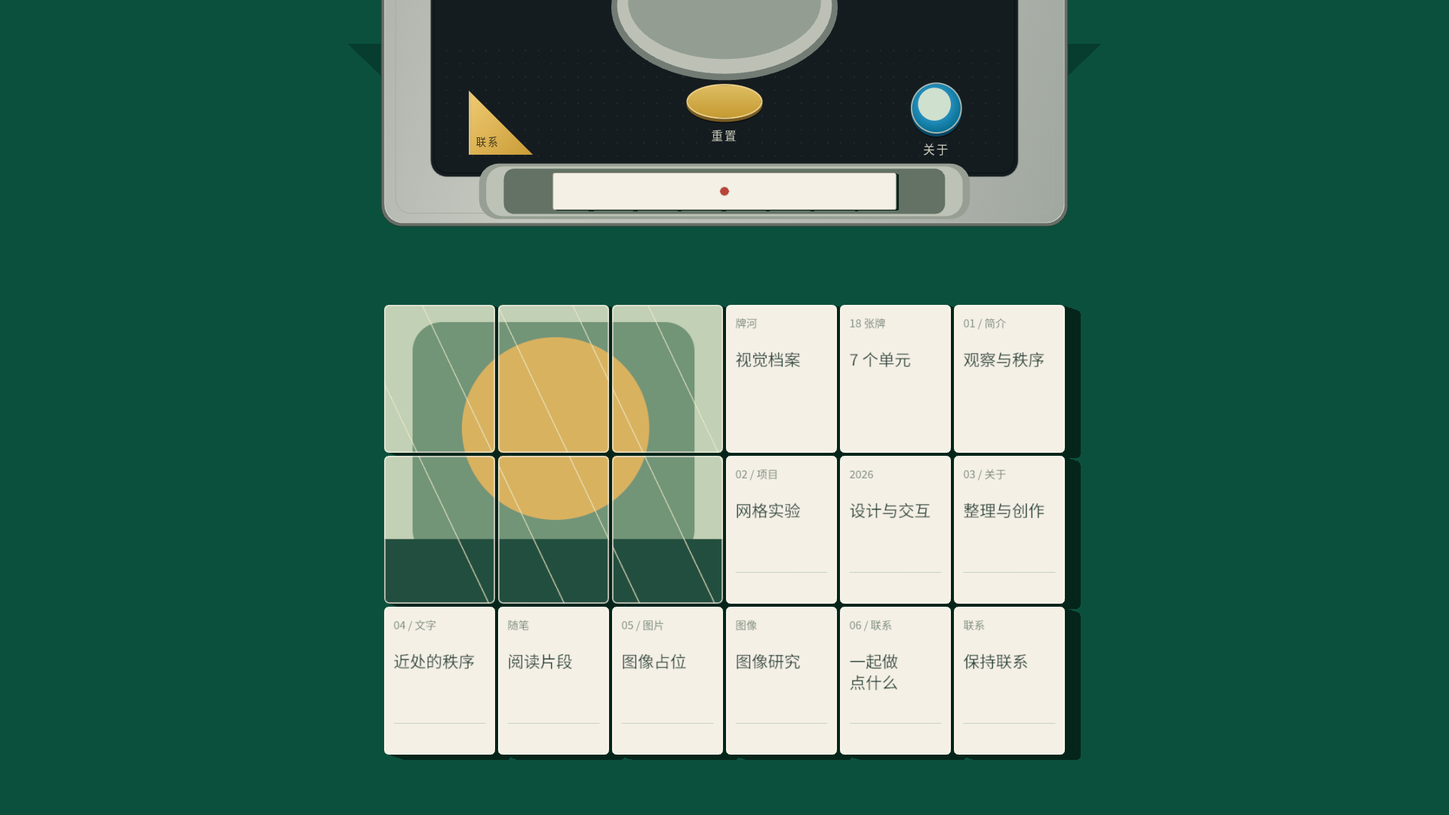
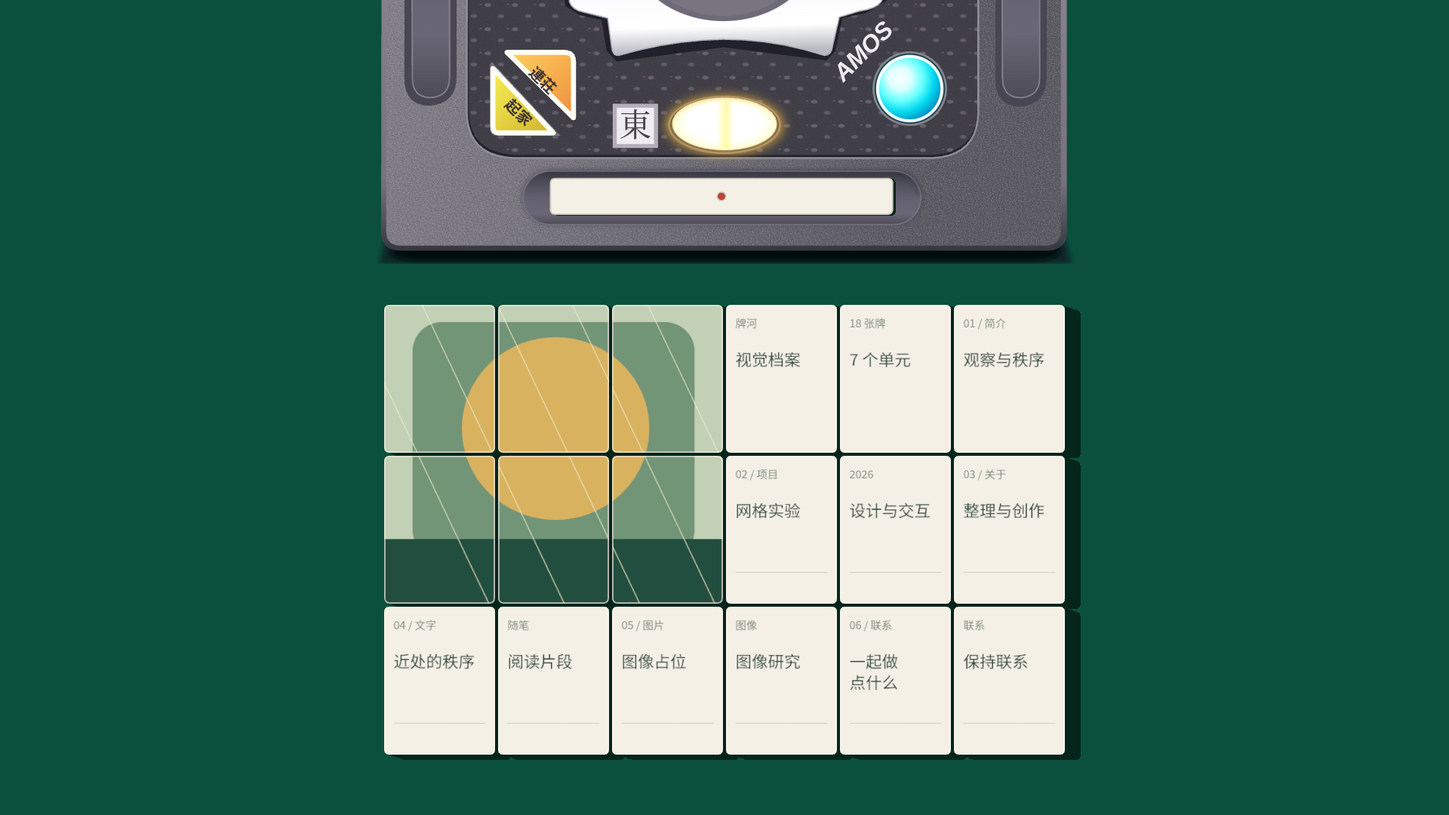
Recreate reference control-box crop and vary centered tenbou landings

Changed region(s): [[0.25, 0.0, 0.75, 0.3361]]

diff --git a/score-stick.js b/score-stick.js
@@ -1,9 +1,10 @@
 import { Euler, Quaternion, Vector3 } from './vendor/three.module.js';
 import { smooth } from './geometry.js';
-import { REAL_SIZE, mm, controlPoint } from './physical-layout.js';
+import { REAL_SIZE, mm, STICK_CENTER } from './physical-layout.js';
 
 // The same millimeter conversion as the tiles and 2D control box.
-export const STICK = Object.freeze({ length: mm(REAL_SIZE.stick.length), width: mm(REAL_SIZE.stick.width), thickness: mm(REAL_SIZE.stick.thickness), x: 960, y: -controlPoint(960, 202).y });
+export const STICK = Object.freeze({ length: mm(REAL_SIZE.stick.length), width: mm(REAL_SIZE.stick.width), thickness: mm(REAL_SIZE.stick.thickness), x: STICK_CENTER.x, y: -STICK_CENTER.y });
+export const MAX_STICK_YAW = Math.PI / 12;
 export const REST_STICK = Object.freeze({ x: STICK.x, y: STICK.y, z: STICK.thickness / 2, quaternion: Object.freeze([0, 0, 0, 1]) });
 const STEP = 1 / 240, PICKUP = 360, GRAVITY = 1600;
 const corners = [];
@@ -32,11 +33,14 @@ function mix(a, b, t) {
 // angular inertia. Precomputing keeps frame drops and blur samples deterministic.
 export function createStickDrop(random = Math.random, start = REST_STICK) {
   const sign = random() < .5 ? -1 : 1;
-  const rotation = new Euler((random() * .16 + .09) * sign, (random() * .16 + .11) * -sign, (random() - .5) * .035, 'XYZ');
+  // Each release chooses its own heading around the original horizontal state,
+  // rather than adding a rotation to the previous landing.
+  const landingYaw = (random() * 2 - 1) * MAX_STICK_YAW;
+  const rotation = new Euler((random() * .12 + .09) * sign, (random() * .14 + .11) * -sign, landingYaw, 'ZYX');
   const launch = { x: STICK.x, y: STICK.y, z: 132 + random() * 20, quaternion: new Quaternion().setFromEuler(rotation).toArray() };
   const position = new Vector3(launch.x, launch.y, launch.z);
   const orientation = new Quaternion().fromArray(launch.quaternion);
-  const velocity = new Vector3(), omega = new Vector3(.25 * sign, -.2 * sign, (random() - .5) * .02);
+  const velocity = new Vector3(), omega = new Vector3(.25 * sign, -.2 * sign, 0);
   const momentum = omega.clone().applyQuaternion(orientation.clone().invert()).multiply(inertia).applyQuaternion(orientation);
   const frames = [launch], impacts = [];
   let quiet = 0;
@@ -48,6 +52,10 @@ export function createStickDrop(random = Math.random, start = REST_STICK) {
     omega.copy(inverseInertia(momentum));
     const spin = omega.length();
     if (spin > 0) orientation.premultiply(new Quaternion().setFromAxisAngle(omega.clone().divideScalar(spin), spin * STEP)).normalize();
+    // Midpoint and in-plane heading are constrained; the ends can still rock,
+    // collide and rebound in 3D. This prevents any accumulated lateral drift.
+    const tilt = new Euler().setFromQuaternion(orientation, 'ZYX');
+    orientation.setFromEuler(new Euler(tilt.x, tilt.y, landingYaw, 'ZYX'));
     const contacts = corners.map((corner) => corner.clone().applyQuaternion(orientation));
     const minimum = Math.min(...contacts.map((contact) => contact.z + position.z));
     const contact = minimum < .15;
@@ -73,8 +81,7 @@ export function createStickDrop(random = Math.random, start = REST_STICK) {
         if (slipSpeed > .0001) {
           const tangent = slip.divideScalar(slipSpeed);
           const tangentArm = arm.clone().cross(tangent);
-          const friction = Math.min(impulse * .55, slipSpeed / (1 + inverseInertia(tangentArm).dot(tangentArm)));
-          velocity.addScaledVector(tangent, -friction);
+          const friction = Math.min(impulse * .55, slipSpeed / Math.max(.00001, inverseInertia(tangentArm).dot(tangentArm)));
           momentum.addScaledVector(tangentArm, -friction);
           omega.copy(inverseInertia(momentum));
         }
@@ -82,8 +89,7 @@ export function createStickDrop(random = Math.random, start = REST_STICK) {
           impacts.push({ time: step * STEP, speed: -contactVelocity.z, end: Math.sign(arm.x) });
         }
       }
-      // Tangential contact loses energy without a visual settling tween.
-      velocity.x *= .75; velocity.y *= .75;
+      // Contact damping dissipates the remaining rotational energy.
       momentum.multiplyScalar(.975); omega.copy(inverseInertia(momentum));
     }
     frames.push(snapshot());
@@ -92,7 +98,7 @@ export function createStickDrop(random = Math.random, start = REST_STICK) {
   }
   const final = frames.at(-1);
   // Contact tolerance leaves less than a fraction of a design pixel of movement.
-  const settled = { ...final, z: STICK.thickness / 2, quaternion: new Quaternion().setFromEuler(new Euler(0, 0, new Euler().setFromQuaternion(orientation).z)).toArray() };
+  const settled = { ...final, x: STICK.x, y: STICK.y, z: STICK.thickness / 2, quaternion: new Quaternion().setFromEuler(new Euler(0, 0, landingYaw, 'ZYX')).toArray() };
   frames.push(settled);
   const duration = PICKUP + (frames.length - 1) * STEP * 1000;
   return {

diff --git a/app.js b/app.js
@@ -6,7 +6,7 @@ import { CONTROL } from './physical-layout.js';
 const $ = (id) => document.getElementById(id);
 const scene = $('scene'), board = $('board'), canvas = $('table');
 scene.style.setProperty('--console-scale', String(CONTROL.scale));
-scene.style.setProperty('--console-shift', `${CONTROL.bottom - 250}px`);
+scene.style.setProperty('--console-left', `${CONTROL.left}px`);
 const ctx = canvas.getContext('2d', { alpha: false });
 const FONT = '"Source Han Sans SC", "Noto Sans CJK SC", "Noto Sans SC", "PingFang SC", "Microsoft YaHei", sans-serif';
 const COLORS = { table: '#0B503D', back: '#2457B8', front: '#F4F0E6' };
@@ -15,7 +15,7 @@ const UNIT_NAMES = { A: '主图：观察与秩序', B: '简介：牌河视觉档
 let phase = 'loading', epoch = 0, waveEnd = 0, waveTarget = 'front';
 let hovered = null, pressed = null;
 let raf = 0, pixelScale = 1, orderCounter = 0;
-let mahjong;
+let mahjong, consoleImage;
 let stickDrop = null, stickEpoch = 0, restingStick = REST_STICK;
 const tiles = Array.from({ length: 18 }, (_, index) => ({
   index, ...center(index), unit: UNIT_IDS[index], fragment: null, tween: null, flip: null, order: index,
@@ -104,35 +104,10 @@ function drawConsole() {
   const context = background.context;
   context.clearRect(0, 0, 1920, 1080);
   context.fillStyle = COLORS.table; context.fillRect(0, 0, 1920, 1080);
-  context.save();
-  context.translate(960, CONTROL.bottom); context.scale(CONTROL.scale, CONTROL.scale); context.translate(-960, -250);
-  context.fillStyle = '#073d2e';
-  context.beginPath(); context.moveTo(444, 0); context.lineTo(490, 44); context.lineTo(490, 0); context.fill();
-  context.beginPath(); context.moveTo(1430, 0); context.lineTo(1430, 44); context.lineTo(1476, 0); context.fill();
-  roundRect(context, 490, -690, 940, 940, 28, '#666e68', '#223b31');
-  const metal = context.createLinearGradient(490, 0, 1430, 250);
-  metal.addColorStop(0, '#b2b6af'); metal.addColorStop(.24, '#c5c8bf');
-  metal.addColorStop(.63, '#b9bbb6'); metal.addColorStop(1, '#9fa79e');
-  roundRect(context, 495, -685, 930, 930, 25, metal, '#d3d6cb');
-  roundRect(context, 510, -674, 900, 906, 20, null, '#a5ada2');
-  roundRect(context, 558, -620, 804, 802, 22, '#151c20', '#69716d');
-  roundRect(context, 563, -616, 794, 793, 18, null, '#080e12');
-  context.fillStyle = '#394347';
-  for (let y = 9; y < 163; y += 18) for (let x = 579; x < 1351; x += 18) {
-    context.fillRect(x, y, .9, .9);
-  }
-  // Only the lower rim of the central dice window enters the composition.
-  context.beginPath(); context.ellipse(960, -50, 155, 100, 0, 0, Math.PI * 2);
-  context.fillStyle = '#737c74'; context.fill();
-  context.beginPath(); context.ellipse(960, -53, 147, 94, 0, 0, Math.PI * 2);
-  context.fillStyle = '#bdc1b5'; context.fill();
-  context.beginPath(); context.ellipse(960, -57, 132, 78, 0, 0, Math.PI * 2);
-  context.fillStyle = '#939d91'; context.fill();
-  // Widen the slot for the correctly scaled 7 mm white stick, keeping its center.
-  roundRect(context, 624, 164, 672, 76, 27, '#979f94');
-  roundRect(context, 634, 168, 652, 68, 23, '#bcc2b5');
-  roundRect(context, 658, 171, 604, 62, 14, '#647266');
-  context.restore();
+  // The asset's viewBox is the exact visible reference crop; no upper half of
+  // the housing exists outside it. Native buttons use the same coordinates.
+  context.drawImage(consoleImage, CONTROL.left, CONTROL.top,
+    CONTROL.referenceWidth * CONTROL.scale, CONTROL.visibleHeight);
 }
 
 function resize() {
@@ -275,7 +250,7 @@ function finishFlip() {
     : '十八张蓝背牌，六列三行。点击任意一张揭示全部内容。');
   board.setAttribute('aria-busy', 'false');
   $('status').textContent = phase === 'front'
-    ? '档案已展开。点击上方重置，从左上角翻回蓝背。'
+    ? '档案已展开。点击上方黄色灯，从左上角翻回蓝背。'
     : '牌河已重置。点击任意一张蓝背牌，可以再次揭示。';
 }
 
@@ -339,7 +314,7 @@ document.addEventListener('visibilitychange', () => { if (!document.hidden) requ
 async function initialize() {
   createHitTargets();
   await document.fonts.ready;
-  await buildTextures();
+  await Promise.all([buildTextures(), loadImage('./assets/control-box.svg').then((image) => { consoleImage = image; })]);
   mahjong = new Mahjong3D($('mahjong'), tiles);
   epoch = performance.now();
   phase = 'entry';

diff --git a/styles.css b/styles.css
@@ -21,37 +21,25 @@ button:focus-visible, a:focus-visible { outline: 2px solid #f4f0e6; outline-offs
 }
 .stick-hit[aria-busy="true"] { cursor: default; }
 .console {
-  position: absolute; inset: 0; z-index: 30; pointer-events: none;
-  transform-origin: 960px 250px;
-  transform: translateY(var(--console-shift)) scale(var(--console-scale));
+  position: absolute; left: var(--console-left); top: 0; width: 698px; height: 262px;
+  z-index: 30; pointer-events: none; transform-origin: 0 0;
+  transform: scale(var(--console-scale));
 }
 .console .mechanical { pointer-events: auto; }
-.mechanical { position: absolute; border: 0; padding: 0; background: none; color: #c5c8b7; z-index: 30; }
+.mechanical { position: absolute; border: 0; padding: 0; background: none; z-index: 30; touch-action: manipulation; }
 .mechanical:disabled { cursor: default; }
-.mechanical .button-top { display: block; position: absolute; transition: filter 160ms ease-in-out, transform 60ms ease-in-out, box-shadow 60ms ease-in-out; }
-.mechanical:not(:disabled):hover .button-top { filter: brightness(1.08); transition-duration: 120ms; }
-.mechanical:not(:disabled):active .button-top { transform: translateY(2px); }
-.button-label { position: absolute; font-size: 16px; letter-spacing: 2px; }
-.reset { left: 906px; top: 53px; width: 108px; height: 91px; border-radius: 40px; }
+.reset { left: 293px; top: 97px; width: 110px; height: 55px; border-radius: 50%; }
 .reset .button-top {
-  inset: 2px 2px auto; height: 48px; border-radius: 50%; border: 2px solid #f0d28a;
-  background: linear-gradient(180deg, #ddbd62, #c59a32); box-shadow: 0 4px 0 #795b21, 0 6px 0 #0b1113;
+  display: block; position: absolute; inset: 2px 4px 3px; border-radius: 50%;
+  background: linear-gradient(90deg, transparent 42%, #fff50045 49%, #ffef0050 52%, transparent 59%), radial-gradient(ellipse at 50% 45%, #fff 0%, #fff 52%, #ffffdb 72%, #ffe932 95%);
+  border: 2px solid #fffad3; box-shadow: 0 0 3px #ffc23d;
+  transition: filter 160ms ease-in-out, transform 60ms ease-in-out, box-shadow 60ms ease-in-out;
 }
-.reset .button-label { top: 60px; left: 0; width: 108px; }
-.about { left: 1213px; top: 51px; width: 74px; height: 103px; border-radius: 38px; }
-.about .button-top {
-  inset: 2px 2px auto; height: 70px; border-radius: 50%; border: 2px solid #a0b7b6;
-  background: radial-gradient(circle at 46% 42%, #d0e0ce 0 42%, #238cba 44%, #087195 72%);
-  box-shadow: 0 4px 0 #084663, 0 6px 0 #0b1113;
-}
-.about .button-label { top: 81px; left: 0; width: 74px; }
-.contact { left: 606px; top: 60px; width: 96px; height: 101px; }
-.contact .button-top {
-  inset: 4px 4px auto; width: 88px; height: 88px; clip-path: polygon(0 0, 100% 100%, 0 100%);
-  background: linear-gradient(135deg, #f0cb72, #c99b37); border-left: 2px solid #ecd79c;
-}
-.contact .button-label { top: 63px; left: 14px; font-size: 14px; color: #493c1d; }
-.mechanical:not(:disabled):active .button-top { box-shadow: 0 2px 0 #463d29; }
+.reset:not(:disabled):hover .button-top { filter: brightness(1.08); transition-duration: 120ms; }
+.reset:not(:disabled):active .button-top { transform: translateY(2px); box-shadow: 0 1px 2px #8b6f30; }
+.dealer { left: 114px; top: 65px; width: 72px; height: 72px; clip-path: polygon(0 0, 100% 100%, 0 100%); }
+.streak { left: 128px; top: 49px; width: 73px; height: 73px; clip-path: polygon(0 0, 100% 0, 100% 100%); }
+.blue-light { left: 495px; top: 51px; width: 74px; height: 74px; border-radius: 50%; }
 .tile-hit {
   position: absolute; border: 0; padding: 0; background: transparent; border-radius: 8px;
   touch-action: manipulation; outline-offset: 0; user-select: none;

diff --git a/tests/score-stick.test.js b/tests/score-stick.test.js
@@ -1,7 +1,7 @@
 import test from 'node:test';
 import assert from 'node:assert/strict';
-import { Vector3 } from '../vendor/three.module.js';
-import { STICK, REST_STICK, createStickDrop, stickClearance } from '../score-stick.js';
+import { Vector3, Quaternion } from '../vendor/three.module.js';
+import { STICK, REST_STICK, MAX_STICK_YAW, createStickDrop, stickClearance } from '../score-stick.js';
 import { createStickGeometries } from '../mahjong-3d.js';
 
 function random(seed) {
@@ -15,6 +15,8 @@ test('white tenbou preserves the reference 65:7:3 proportion and has one recesse
   assert.ok(Math.abs(size.x / size.y - 65 / 7) < .00001);
   assert.ok(Math.abs(size.z / size.y - 3 / 7) < .00001);
   assert.equal(geometries.stickDot.type, 'CylinderGeometry');
+  assert.equal(geometries.stickBody.parameters.options.bevelSegments, 3);
+  assert.ok(geometries.stickBody.parameters.options.bevelSize > 1);
   geometries.stickDot.computeBoundingBox();
   assert.ok(geometries.stickDot.boundingBox.max.z < STICK.thickness / 2);
   Object.values(geometries).forEach((geometry) => geometry.dispose());
@@ -50,4 +52,27 @@ test('repeated pickup connects to the previous resting pose; sampling order is i
   second.at(1500); second.at(-8); second.at(350);
   assert.deepEqual(second.at(600), saved);
   assert.notDeepEqual(first.at(360), second.at(360));
+});
+
+test('successive drops pin the same midpoint and vary heading within 15 degrees of the original state', () => {
+  const rng = random(93218), headings = new Set();
+  let rest = REST_STICK;
+  for (let index = 0; index < 80; index++) {
+    const drop = createStickDrop(rng, rest);
+    for (let time = 0; time <= drop.duration + 10; time += 12) {
+      const pose = drop.at(time);
+      assert.equal(pose.x, STICK.x); assert.equal(pose.y, STICK.y);
+      const axis = new Vector3(1, 0, 0).applyQuaternion(new Quaternion().fromArray(pose.quaternion));
+      assert.ok(Math.abs(Math.atan2(axis.y, axis.x)) <= MAX_STICK_YAW + .00001);
+    }
+    const q = drop.settled.quaternion;
+    assert.equal(q[0], 0); assert.equal(q[1], 0);
+    headings.add(Math.round(2 * Math.atan2(q[2], q[3]) * 180 / Math.PI));
+    rest = drop.settled;
+  }
+  assert.ok(headings.size > 20, 'Landing headings repeated rather than being newly sampled');
+  for (const sample of [0, 1]) {
+    const drop = createStickDrop(() => sample);
+    assert.ok(Math.abs(2 * Math.atan2(drop.settled.quaternion[2], drop.settled.quaternion[3])) <= Math.PI / 12 + .00001);
+  }
 });

diff --git a/index.html b/index.html
@@ -16,16 +16,13 @@
         <div id="board" aria-label="麻将桌上的视觉档案" aria-busy="true">
           <canvas id="table" width="1920" height="1080" aria-hidden="true"></canvas>
           <canvas id="mahjong" width="1116" height="1040" aria-hidden="true"></canvas>
-          <header class="console" aria-label="档案导航">
-            <button id="reset" class="mechanical reset" type="button" aria-label="重置：从左上角波纹翻回蓝背" disabled>
-              <span class="button-top"></span><span class="button-label">重置</span>
+          <header class="console" aria-label="麻将桌控制盒">
+            <button id="reset" class="mechanical reset" type="button" aria-label="黄色灯重置：从左上角波纹翻回蓝背" disabled>
+              <span class="button-top" aria-hidden="true"></span>
             </button>
-            <button id="about" class="mechanical about" type="button" aria-label="关于（暂未启用）" disabled>
-              <span class="button-top"></span><span class="button-label">关于</span>
-            </button>
-            <button id="contact" class="mechanical contact" type="button" aria-label="联系（暂未启用）" disabled>
-              <span class="button-top"></span><span class="button-label">联系</span>
-            </button>
+            <button id="dealer" class="mechanical dealer" type="button" aria-label="起家（暂未启用）" disabled></button>
+            <button id="streak" class="mechanical streak" type="button" aria-label="连庄（暂未启用）" disabled></button>
+            <button id="blue-light" class="mechanical blue-light" type="button" aria-label="蓝色灯（暂未启用）" disabled></button>
             <h1 class="sr-only">牌河视觉档案</h1>
           </header>
           <button id="score-stick" class="stick-hit" type="button" aria-label="白色千点棒：点击拿起并掉落" aria-busy="false" data-motion="idle" disabled></button>

diff --git a/tests/physical-layout.test.js b/tests/physical-layout.test.js
@@ -1,6 +1,6 @@
 import test from 'node:test';
 import assert from 'node:assert/strict';
-import { PIXELS_PER_MM, CONTROL, controlPoint } from '../physical-layout.js';
+import { PIXELS_PER_MM, CONTROL, controlPoint, STICK_CENTER } from '../physical-layout.js';
 import { SPEC } from '../geometry.js';
 import { STICK } from '../score-stick.js';
 
@@ -13,10 +13,12 @@ test('tiles, tenbou and control box share one millimeter scale', () => {
   assert.ok(Math.abs(CONTROL.width / SPEC.tileWidth - 130 / 21) < .00001);
 });
 
-test('the physical stick aligns with the transformed 2D slot and clears both side buttons', () => {
-  assert.equal(-STICK.y, controlPoint(960, 202).y);
-  assert.equal(controlPoint(1430, 250).x - controlPoint(490, 250).x, CONTROL.width);
-  assert.equal(controlPoint(960, 250).y, CONTROL.bottom);
-  assert.ok(STICK.x + STICK.length / 2 < controlPoint(1213, 202).x);
-  assert.ok(STICK.x - STICK.length / 2 > controlPoint(702, 202).x);
+test('the reference crop aligns the physical stick with the 2D slot and exposes only the supplied portion', () => {
+  assert.equal(STICK.x, STICK_CENTER.x); assert.equal(-STICK.y, STICK_CENTER.y);
+  assert.equal(-STICK.y, controlPoint(345, 195).y);
+  assert.equal(controlPoint(689, 249).x - controlPoint(7, 249).x, CONTROL.width);
+  assert.equal(controlPoint(348, 249).y, CONTROL.bottom);
+  assert.equal(CONTROL.visibleHeight / CONTROL.scale, 262);
+  assert.ok(STICK.x - STICK.length / 2 > controlPoint(148, 195).x);
+  assert.ok(STICK.x + STICK.length / 2 < controlPoint(543, 195).x);
 });

diff --git a/mahjong-3d.js b/mahjong-3d.js
@@ -43,8 +43,8 @@ export function createTileGeometries() {
 }
 
 export function createStickGeometries() {
-  const bevel = mm(1 / 7), x = -STICK.length / 2 + bevel, y = -STICK.width / 2 + bevel;
-  const w = STICK.length - bevel * 2, h = STICK.width - bevel * 2, r = mm(2 / 7);
+  const bevel = mm(.25), x = -STICK.length / 2 + bevel, y = -STICK.width / 2 + bevel;
+  const w = STICK.length - bevel * 2, h = STICK.width - bevel * 2, r = mm(.8);
   const shape = new THREE.Shape();
   shape.moveTo(x + r, y); shape.lineTo(x + w - r, y);
   shape.quadraticCurveTo(x + w, y, x + w, y + r);
@@ -54,7 +54,7 @@ export function createStickGeometries() {
   const pipRadius = mm(6.5 / 7);
   const pip = new THREE.Path(); pip.absarc(0, 0, pipRadius, 0, Math.PI * 2, true); shape.holes.push(pip);
   const depth = STICK.thickness - 2 * bevel;
-  const body = new THREE.ExtrudeGeometry(shape, { depth, steps: 1, curveSegments: 12, bevelEnabled: true, bevelThickness: bevel, bevelSize: bevel, bevelSegments: 1 });
+  const body = new THREE.ExtrudeGeometry(shape, { depth, steps: 1, curveSegments: 12, bevelEnabled: true, bevelThickness: bevel, bevelSize: bevel, bevelSegments: 3 });
   body.translate(0, 0, -depth / 2);
   // The single red pip sits inside the molded recess, on both broad faces.
   const dot = new THREE.CylinderGeometry(pipRadius, pipRadius, depth, 32); dot.rotateX(Math.PI / 2);

diff --git a/physical-layout.js b/physical-layout.js
@@ -11,5 +11,14 @@ export const REAL_SIZE = Object.freeze({
   control: Object.freeze({ width: 130 }),
 });
 export const mm = (value) => value * PIXELS_PER_MM;
-export const CONTROL = Object.freeze({ width: mm(REAL_SIZE.control.width), scale: mm(REAL_SIZE.control.width) / 940, bottom: 300 });
-export const controlPoint = (x, y) => ({ x: 960 + (x - 960) * CONTROL.scale, y: CONTROL.bottom + (y - 250) * CONTROL.scale });
+// Coordinates follow the user's 698 x 262 reference crop. The housing spans
+// x=7..689; keeping that width preserves the previously established mm scale.
+const controlScale = mm(REAL_SIZE.control.width) / 682;
+export const CONTROL = Object.freeze({
+  width: mm(REAL_SIZE.control.width), scale: controlScale,
+  left: 960 - 348 * controlScale, top: 0,
+  referenceWidth: 698, referenceHeight: 262,
+  visibleHeight: 262 * controlScale, bottom: 249 * controlScale,
+});
+export const controlPoint = (x, y) => ({ x: CONTROL.left + x * CONTROL.scale, y: y * CONTROL.scale });
+export const STICK_CENTER = Object.freeze(controlPoint(345, 195));

diff --git a/README.md b/README.md
@@ -18,15 +18,23 @@
 
 牌尺寸来源：[AMOS SMART 产品规格](https://www.alban.co.jp/products/detail/682)。点棒尺寸来源：[麻雀用具专门店的白色千点棒](https://item.rakuten.co.jp/auc-e-mahjong/siro-tenbo1000/)。控制盒没有查到公开的独立外框尺寸，参考 [ALBAN 的 AMOS REXX III 实物照片及牌规格](https://www.alban.co.jp/products/detail/735)，结合[同框的牌与中央盒照片](https://www.alban.co.jp/html/upload/save_image/05151220_609f3e0706de9.jpg)估算约为 6–6.5 张牌宽、约 125–135 mm，取 130 mm 作为布局参考。这是照片估算，并非厂家公布值，也不是所有日麻桌统一的控制盒尺寸。
 
-点棒长度现在约为 **3.10 张牌宽**，控制盒宽约为 **6.19 张牌宽**。18 张牌仍按 6 × 3 排列，间隔 4 个设计像素，牌阵水平居中；控制盒下缘位于 y = 300，牌阵从 y = 404 到 1000。控制盒、按钮、槽位一起变换，点棒实体与槽位中心同步定位。
+点棒长度现在约为 **3.10 张牌宽**，控制盒宽约为 **6.19 张牌宽**。18 张牌仍按 6 × 3 排列，间隔 4 个设计像素，牌阵水平居中，范围为 y = 404 到 1000。控制盒、按钮、槽位一起变换，点棒实体与槽位中心同步定位。
+
+## 参考图控制盒
+
+控制盒按用户提供的 **698 × 262** 下半部分参考图重新绘制，纹理与部件由本地 `assets/control-box.svg` 提供，继续使用二维绘制。保留灰色颗粒外壳、紫灰点纹面板、上缘局部金属框、两侧纵向凹槽、起家与连庄三角按钮、黄色椭圆灯、蓝色圆灯、AMOS 标志、“東”标志和立直棒槽。
+
+视口上沿对应参考图的 y = 0；绘图资产只包含参考图中露出的部分，不添加控制盒上半部分。外壳 x = 7..689 的宽度仍为 910 个设计像素，整张裁切图统一等比缩放，包含底部阴影的可见高度约为 349.6。黄色灯保留原来的悬停、按下反馈，以及正面状态下从左上角波纹重置的功能；起家、连庄及蓝色灯保留实物外观，暂不绑定新功能。
+
+![参考图控制盒的露出范围与部件](docs/v2-control-preview.png)
 
 ## 保持的交互
 
 - 初次打开：18 张蓝背进场，1100 ms 后可操作，不自动揭示。
 - 点击任意蓝背牌：以该牌为中心波纹翻到正面；单牌 600 ms，全场最多 1200 ms。
-- **重置**：正面状态可操作，以左上角为中心波纹翻回蓝背，支持反复展开和重置。
+- **黄色灯重置**：正面状态可操作，以左上角为中心波纹翻回蓝背，支持反复展开和重置。
 - 单牌悬停：围绕自身中心放大 4%，独立内容同步变化，邻牌不缩放。
-- 正面点击不弹窗。关于、联系保留外观，暂未启用。
+- 正面点击不弹窗。控制盒使用参考图的实物部件，起家、连庄与蓝色灯暂未启用。
 - 鼠标、键盘 Enter / 空格、方向键及触屏交互保持不变。
 - 无论系统“减少动态效果”设置如何，都执行上述默认动画。
 
@@ -34,7 +42,8 @@
 
 - **实物参考**：[日本麻雀用具专门店的白色千点棒](https://item.rakuten.co.jp/auc-e-mahjong/siro-tenbo1000/)，商品尺寸约 65 × 7 × 3 mm。与牌和控制盒使用同一毫米比例，得到 455 × 49 × 21 的圆角实体；中央红点嵌入两侧宽面，棒体不显示标题或点数文字。[近代麻雀的点棒说明](https://kinmaweb.jp/mahjong-rule/tenbou)确认传统点棒依靠点纹区分点数。
 - **拿起与松手**：360 ms 抬起，每次改变长轴、短轴方向的倾角；随后在重力作用下掉落。拿起下一次时，从上一次落定的实际位置和方向连续开始。
-- **碰撞与弹跳**：使用 240 Hz 固定步长计算刚体角动量、惯性、角点接触冲量、恢复系数和摩擦。一端先着地会带动棒体旋转，再发生另一端碰撞和回弹，约 1.2–1.4 秒后落定；没有预设的上下往返弹跳曲线。
+- **圆角与落点**：点棒外轮廓圆角约 0.8 mm，边缘使用 0.25 mm 的三段圆润倒角。整个动画的水平中点固定在立直棒槽中心；每次独立选择落定方向，相对最初水平状态在 **−15° 到 +15°** 之间，不累积上一次的角度。抬起与碰撞期间仍保留三维端部倾斜和摇晃，落定后棒体平放。
+- **碰撞与弹跳**：使用 240 Hz 固定步长计算刚体角动量、惯性、角点接触冲量、恢复系数和摩擦，并约束水平中点和落定方向。一端先着地会带动棒体旋转，再发生另一端碰撞和回弹，约 1.0–1.4 秒后落定；没有预设的上下往返弹跳曲线。
 - **同一三维场景**：与麻将共用正上方正交相机、卡通材质和唯一方向光，阴影随真实高度和姿态变化。槽位、控制盒和导航按钮仍为二维。
 - **独立交互**：点棒掉落期间忽略重复点击，可以同时翻牌或重置；落定后可再次拿起。没有新增弹窗，也不根据系统动画偏好跳过动画。
 
@@ -77,7 +86,7 @@ npm run check
 npm test
 ```
 
-测试覆盖三者统一毫米比例和槽位对齐、双向波纹、模型厚度、真实旋转关键帧、桌面穿透、正面 UV 方向、正交相机、抬起高度连续性，以及点棒的实物比例、端部碰撞、回弹、落定和重复拿起。检查工作流同时覆盖 main 与 v2 的推送。
+测试覆盖参考图裁切范围、三者统一毫米比例和槽位对齐、双向波纹、模型厚度、真实旋转关键帧、桌面穿透、正面 UV 方向、正交相机、抬起高度连续性，以及点棒的实物比例、圆角、端部碰撞、回弹、固定中点、连续 80 次落定角度变化与 ±15° 上限。检查工作流同时覆盖 main 与 v2 的推送。
 
 | 文件 | 用途 |
 | --- | --- |
